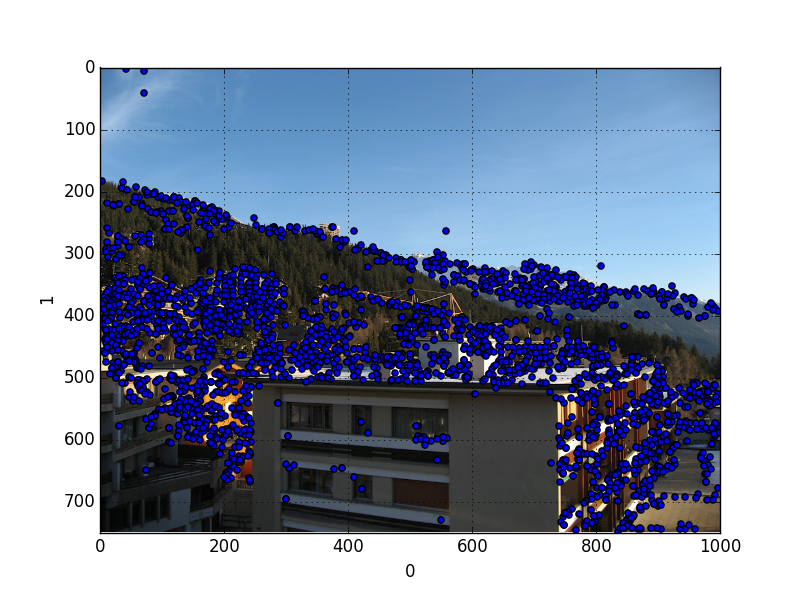
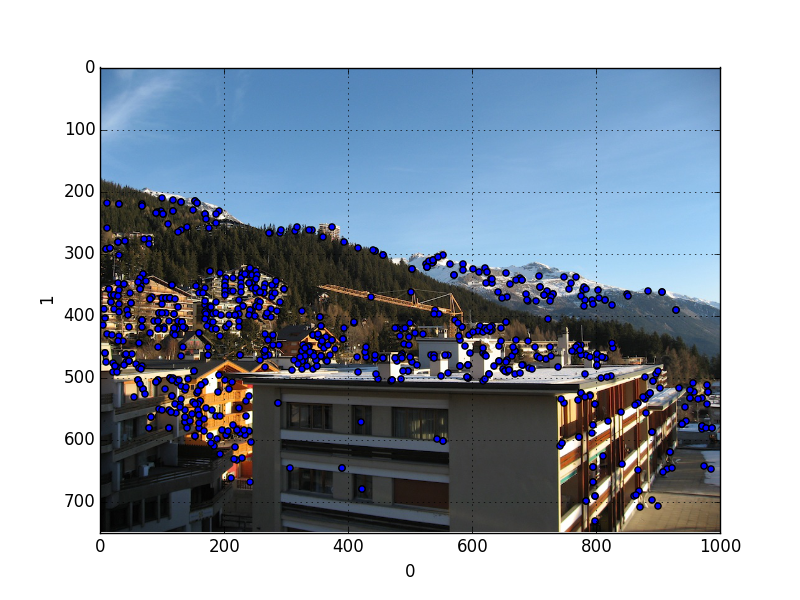
-

diff --git a/siftpy1/sift-driver.cpp b/siftpy1/sift-driver.cpp
@@ -763,10 +763,11 @@ extern "C" {
   static PyObject* py_sift_imp(PyObject* self, PyObject* args)
   {
     char *filename;
-    if (!PyArg_ParseTuple(args, "s", &filename)) {
+    char *threshold;
+    if (!PyArg_ParseTuple(args, "ss", &filename, &threshold)) {
       return NULL;
     }
-    char *cmd[] = {filename, "-e", "10"};
+    char *cmd[] = {filename, "-e", threshold};
     fake_main(4, cmd);
     Py_RETURN_NONE;
   }

diff --git a/siftpy1/siftpy1.py b/siftpy1/siftpy1.py
@@ -1,8 +1,8 @@
 import siftimp
 import pandas as pd
 
-def sift(fin):
-    res = siftimp.sift_imp(fin)
+def sift(fin, threshold=10):
+    res = siftimp.sift_imp(fin, str(threshold))
     fout = "/tmp/" + fin.replace(".pgm",".key")
     df = pd.read_csv(fout,sep=' ',header=None)
     return df

diff --git a/siftpy1/test.md b/siftpy1/test.md
@@ -1,58 +1,30 @@
 
 ```python
-import siftpy1 
-#df1 = sift.sift("crans_1_small.pgm")
-siftpy1.
-```
-
-
-
-
-```python
 from PIL import Image
-import sys
-from pylab import *
 import siftpy1
 ```
 
 ```python
-res = siftpy1.sift_imp("crans_1_small.pgm")
+res = siftpy1.sift("crans_1_small.pgm",threshold=2)
+```
+
+```python
+print len(res)
+```
+
+```text
+800
 ```
 
 
 ```python
 import pandas as pd
-df = pd.read_csv('/tmp/crans_1_small.key',sep=' ',header=None)
-res = np.array(df[[0,1]])
 im=Image.open("crans_1_small.jpg")
-df.plot(kind='scatter',x=0,y=1)
+res.plot(kind='scatter',x=0,y=1)
 plt.hold(True)
 plt.imshow(im)
 plt.savefig('test_01.png')
 ```
-
-```python
-res = siftpy1.sift("crans_2_small.pgm")
-```
-
-```python
-import pandas as pd
-df = pd.read_csv('/tmp/crans_2_small.key',sep=' ',header=None)
-res = np.array(df[[0,1]])
-im=Image.open("crans_2_small.jpg")
-df.plot(kind='scatter',x=0,y=1)
-plt.hold(True)
-plt.imshow(im)
-plt.savefig('test_02.png')
-```
-
-
-
-
-
-
-
-
 
 
 
